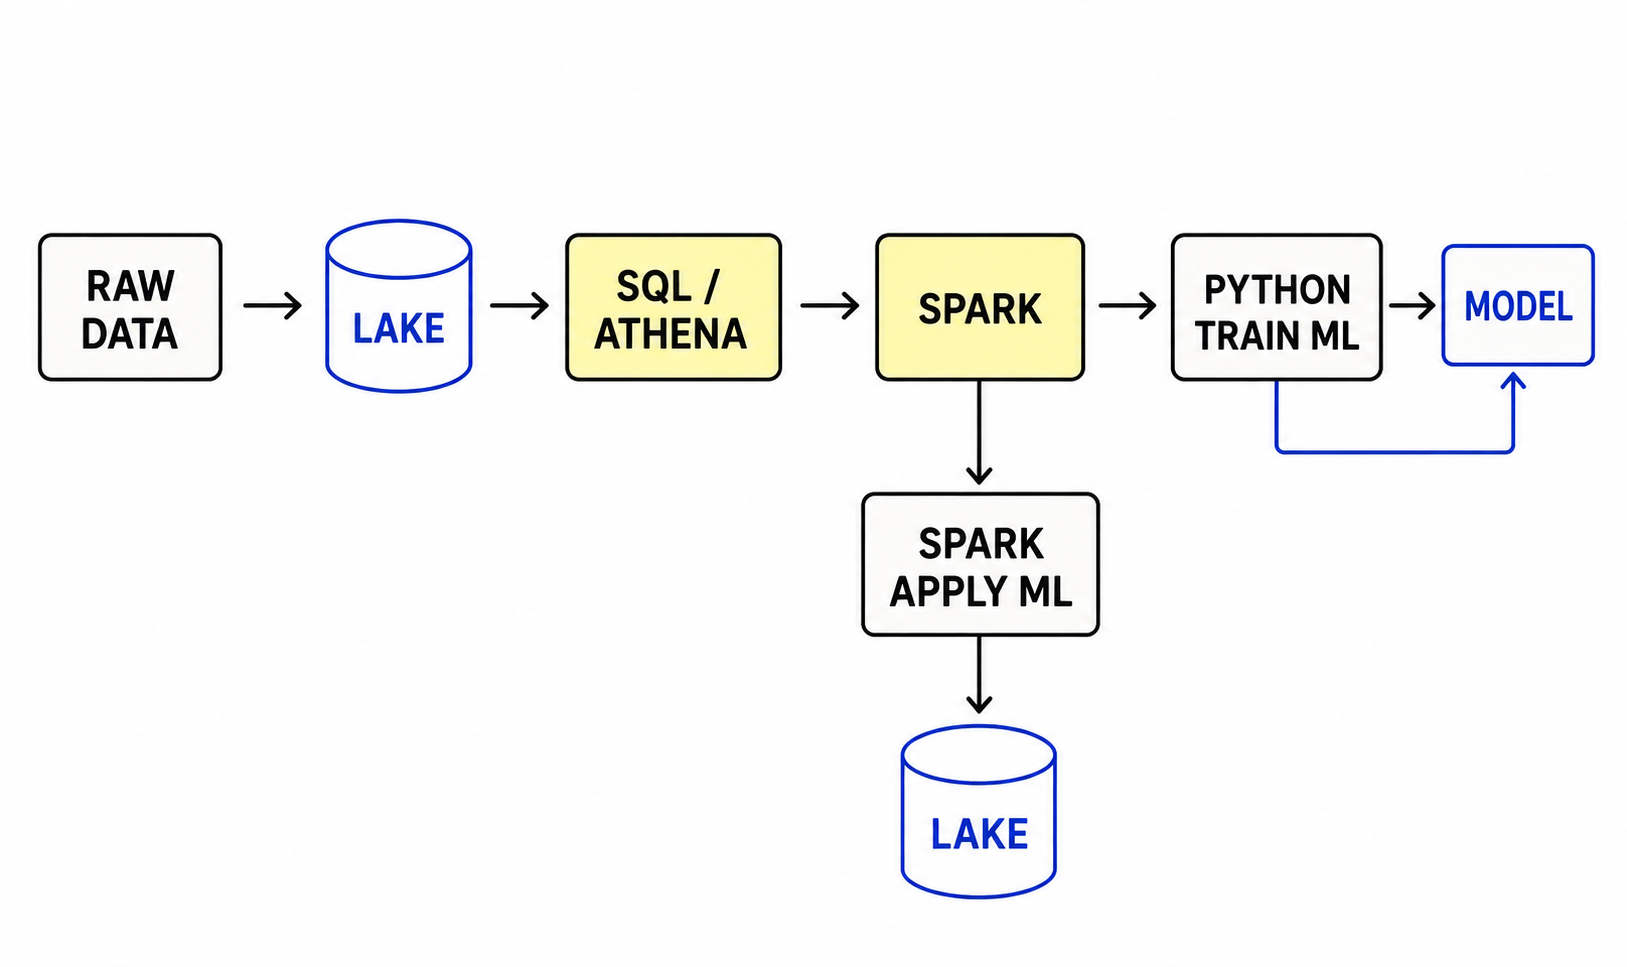
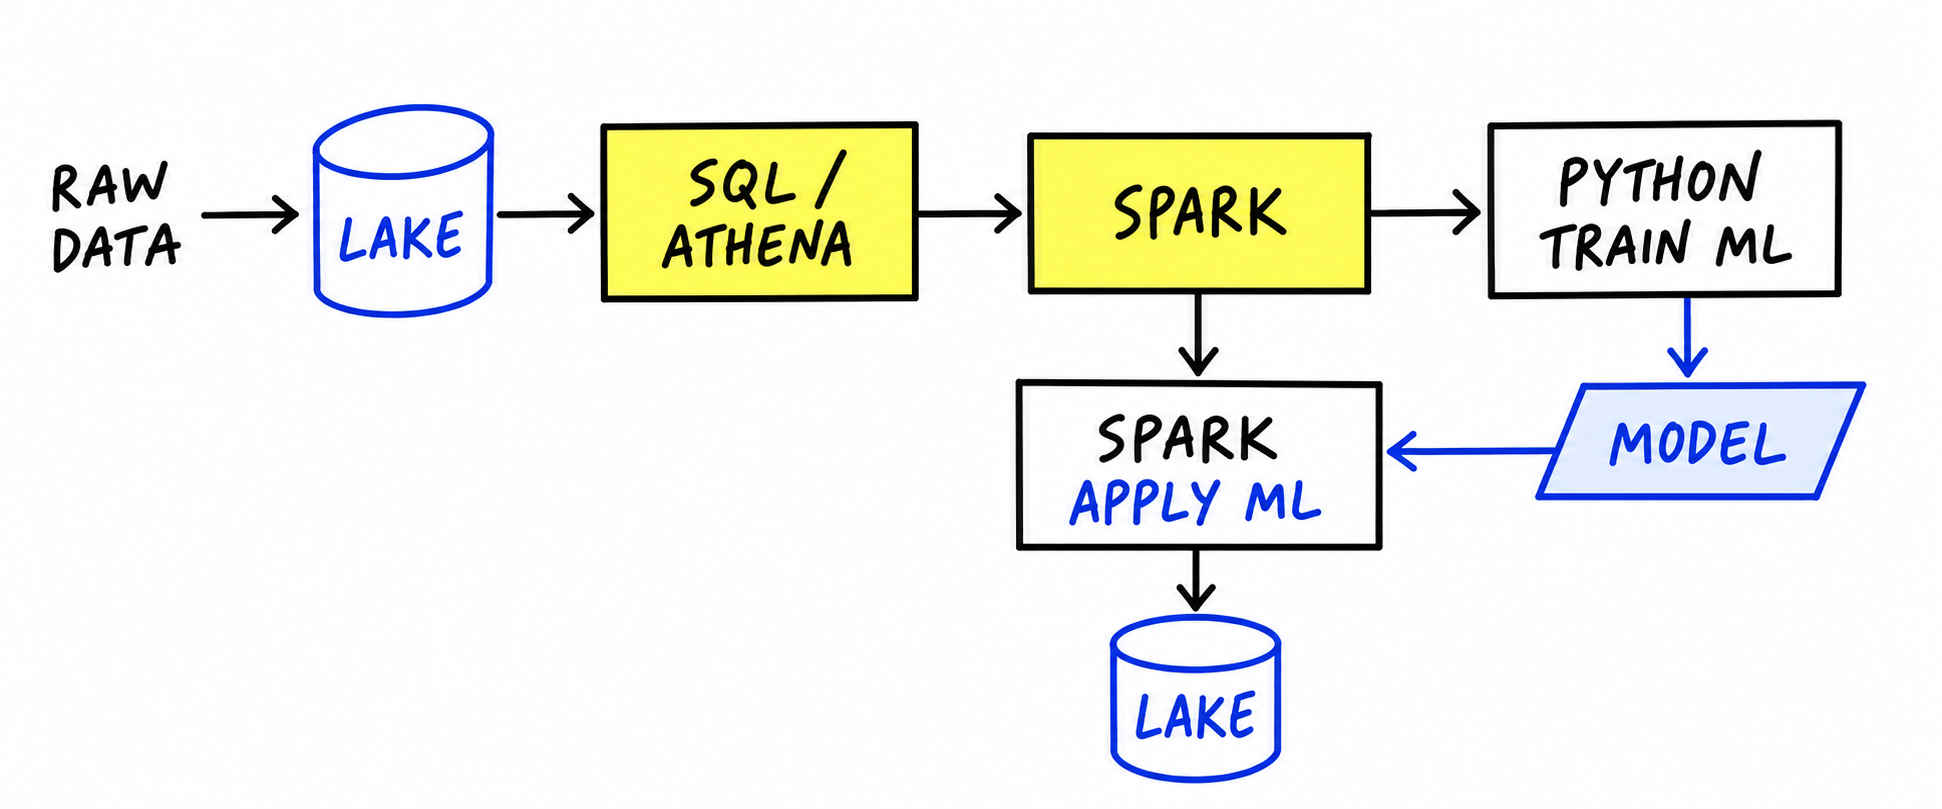
Repair Spark model application workflow

Changed region(s): [[0.0, 0.1236, 0.9834, 0.9889], [0.1844, 0.1236, 0.2459, 0.1545], [0.7683, 0.4326, 0.799, 0.4635]]

diff --git a/cohorts/2027/06-batch/2026-09-09-follow-up-provenance.md b/cohorts/2027/06-batch/2026-09-09-follow-up-provenance.md
@@ -36,6 +36,37 @@ The four 608px validation renders are reproducible with
 `convert <published.png> -resize '608x608>' <validation.png>` and are kept
 outside the repository under `/tmp/de-batch-06-batch-repair-608/`.
 
+## Typical Spark workflow — MODEL application-flow repair
+
+The strict review found that the previous redraw showed `MODEL` beside
+`SPARK APPLY ML` but did not connect them. The output was regenerated from the
+original non-crisp video frame and a fresh native-resolution crop. The new
+diagram makes the required directed `MODEL` → `SPARK APPLY ML` relationship
+explicit while preserving the lesson's SQL preparation, Spark/Python training,
+and data-lake flow. The presenter, webcam inset, editor controls, and other
+capture artifacts are removed.
+
+| Published target | Original JPG SHA-256 | Native bounded crop (geometry; SHA-256) | Imagegen artifact (SHA-256) | Published output SHA-256 | C2PA / validation |
+|---|---|---|---|---|---|
[1 lines of base64/hex data omitted]
+
+The crop was created from the native `640×360` JPG without scaling or
+sharpening:
+
+```bash
+convert 02-introduction-to-spark-04-typical-workflow-whiteboard.jpg \
+  -crop 528x330+54+3 +repage -strip -define png:exclude-chunk=tIME \
+  02-introduction-to-spark-04-typical-workflow-whiteboard-imagegen-crop.png
+```
+
+The imagegen prompt required these exact labels: `RAW DATA`, `LAKE`,
+`SQL / ATHENA`, `SPARK`, `PYTHON TRAIN ML`, `MODEL`, `SPARK APPLY ML`, and
+`LAKE`. It explicitly required the SQL → Spark/Python training → MODEL →
+SPARK APPLY ML flow and prohibited invented text, faces, camera/browser UI,
+watermarks, overlays, and simple enlargement/sharpening. The generated PNG
+was copied byte-for-byte into the published target with no post-generation
+resize, sharpening, or text edit.
+
 ## MapPartitions diagram
 
 | Published target | Original JPG SHA-256 | Bounded crop SHA-256 | Published output SHA-256 | Imagegen output | Validation |
